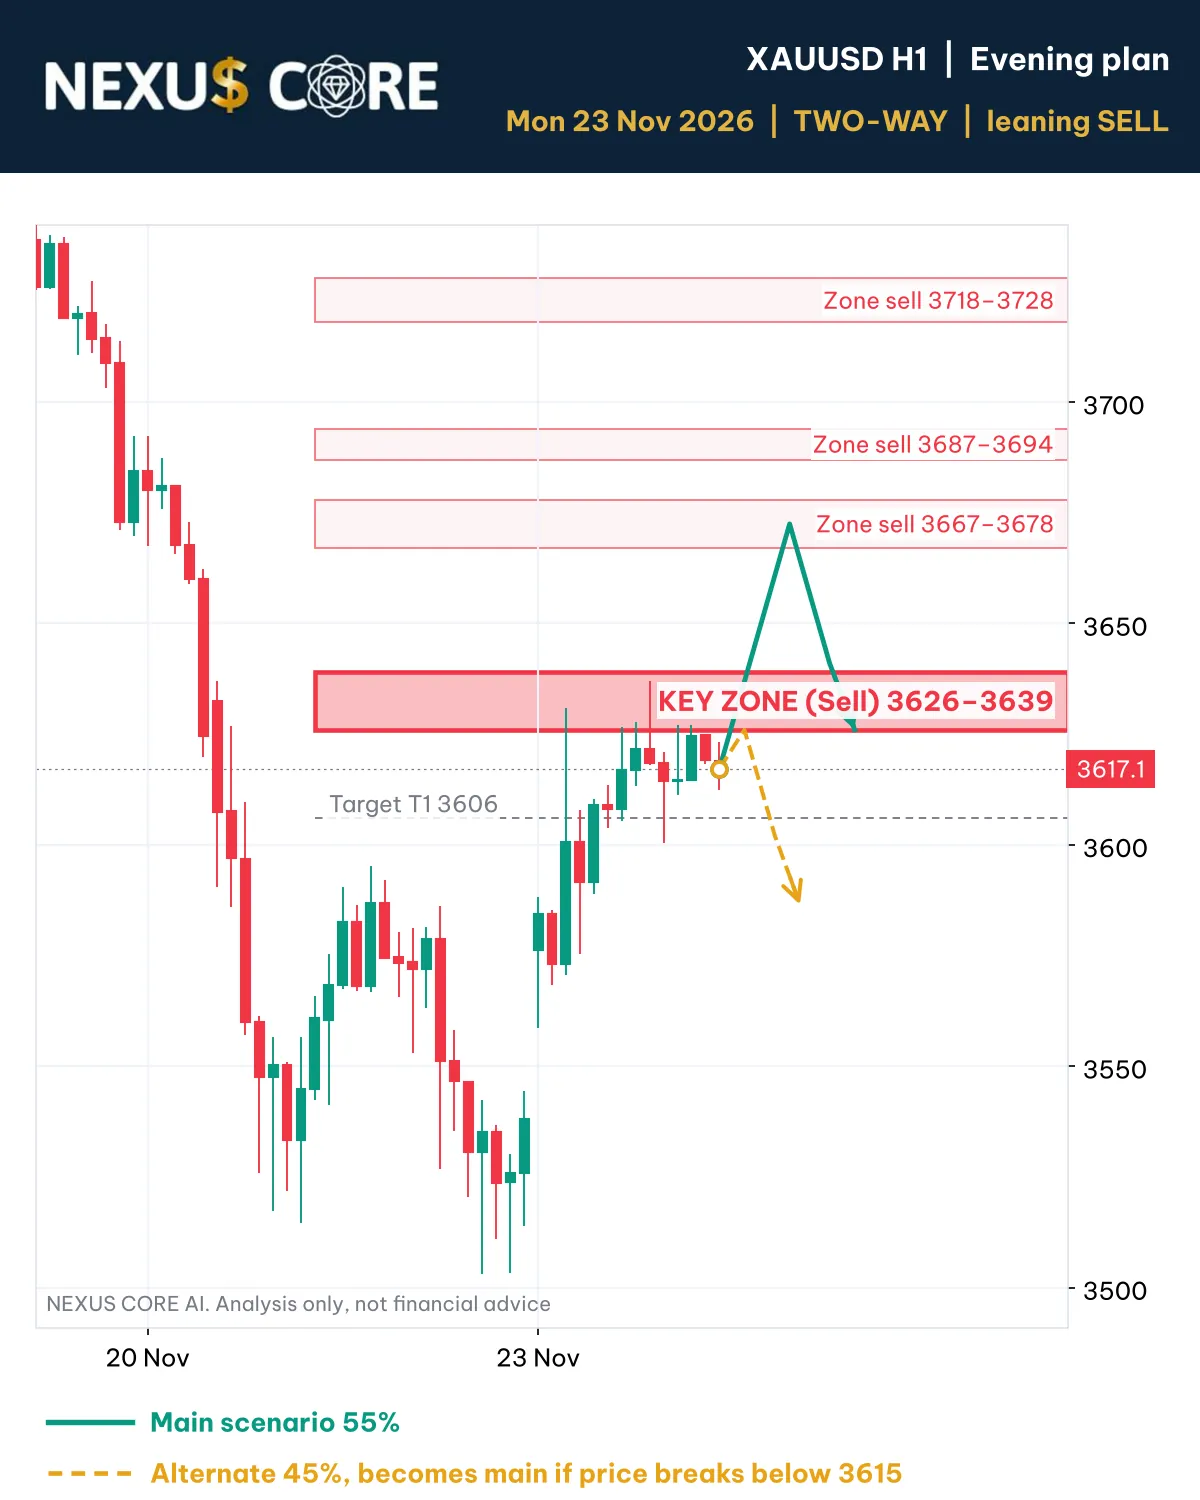
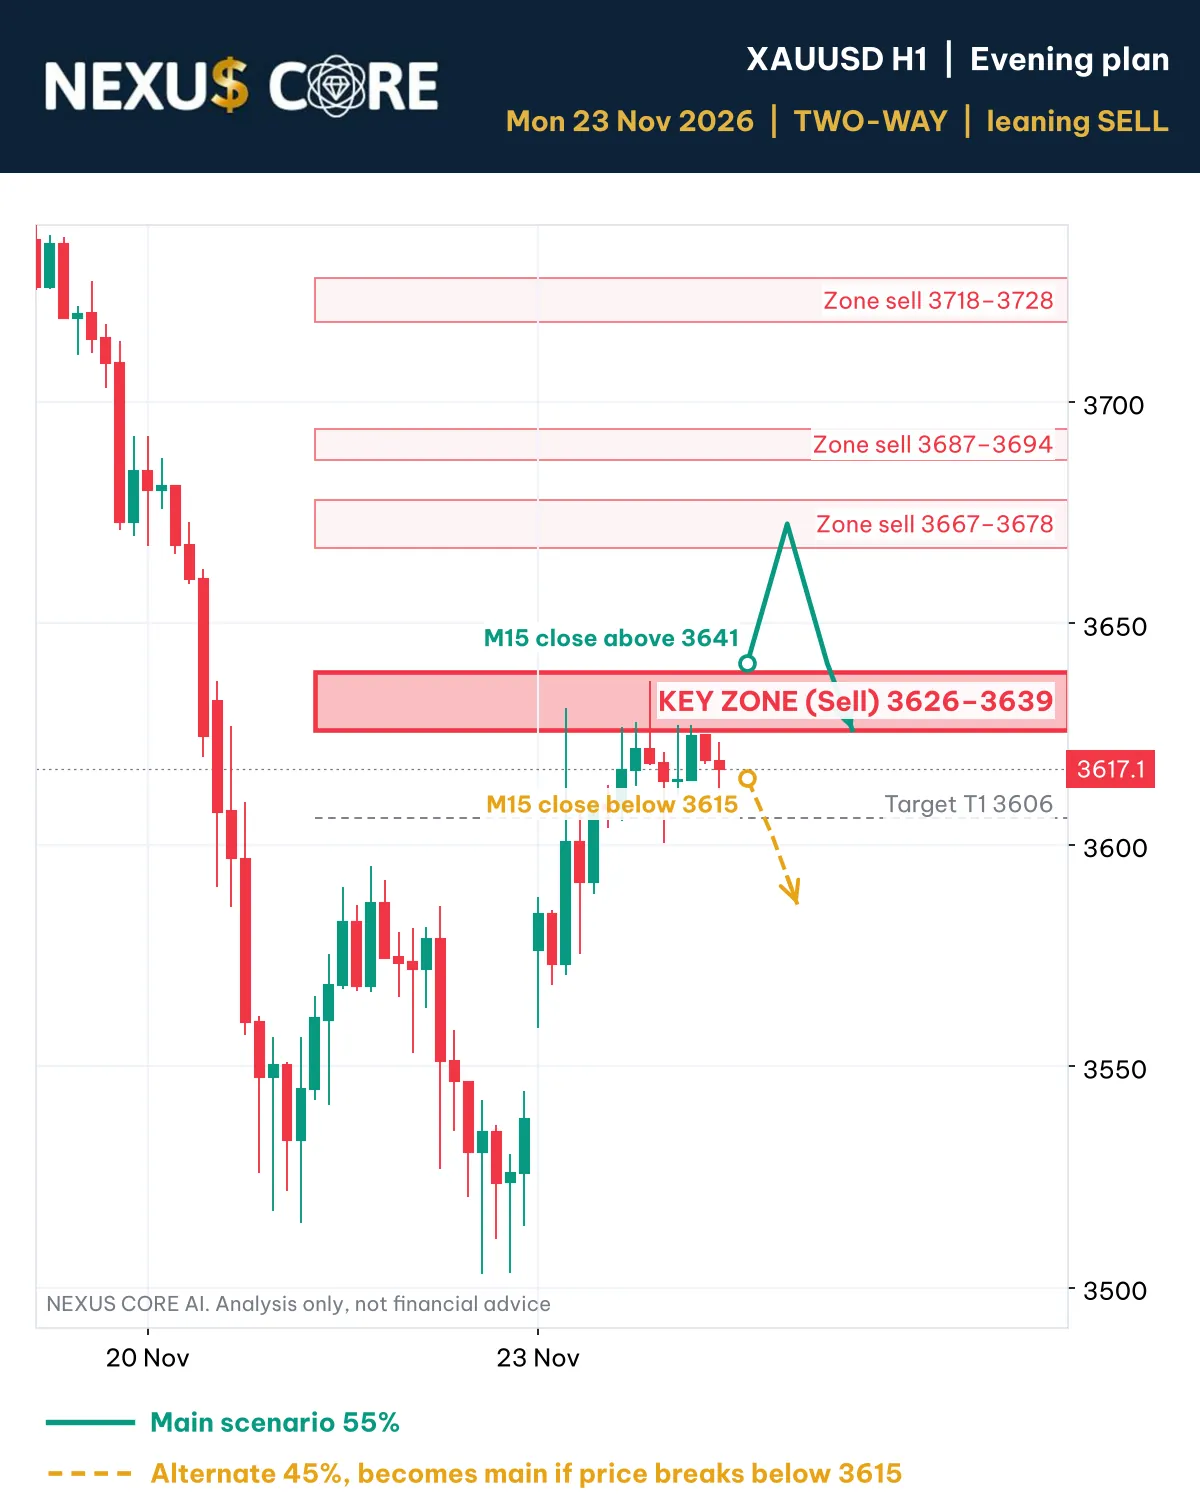
chart: conditional scenario arrows start at the M15 close level (labelled), not at the current price; target label at the right edge
Claude-Session: https://claude.ai/code/session_01WJYGnTrbXDepCU7DbnsJKo

diff --git a/tools/chart.py b/tools/chart.py
@@ -7,7 +7,7 @@ Usage: python3 tools/chart.py <h1.json> <latest.json> <vi|en> <out.png> [logo.pn
 Writes TWO images: <out.png> (wide, for desktop and social cards) and <out>-m.png (portrait, zoomed in,
 larger text – shown on phones). Only closed H1 candles are drawn. No network access.
 """
-import json, sys, time, math, datetime as dt
+import json, re, sys, time, math, datetime as dt
 import matplotlib
 matplotlib.use('Agg')
 # site font (Be Vietnam Pro, SIL Open Font License) so charts match the website; falls back to DejaVu Sans
@@ -27,12 +27,12 @@ L = lambda o: (o or {}).get(lang) or (o or {}).get('en') or ''
 num = lambda v: (f'{v:,.1f}' if round(v % 1, 2) else f'{v:,.0f}').replace(',', '')
 fmt = num
 W = {
-    'vi': dict(sell='Bán', buy='Mua', main='KỊCH BẢN CHÍNH', alt='Kịch bản phụ', key='VÙNG CHÍNH', zone='Vùng', tgt='Mục tiêu', watch='Mức theo dõi',
+    'vi': dict(sell='Bán', buy='Mua', main='KỊCH BẢN CHÍNH', alt='Kịch bản phụ', key='VÙNG CHÍNH', zone='Vùng', tgt='Mục tiêu', watch='Mức theo dõi', cl_up='đóng trên', cl_dn='đóng dưới',
                ed={'0700': 'Plan sáng', '1345': 'Cập nhật 13:45', '1930': 'Plan tối'}, bias={'SELL': 'BÁN', 'BUY': 'MUA', 'TWO_WAY': '2 CHIỀU', 'STAND_ASIDE': 'ĐỨNG NGOÀI'},
                lean='nghiêng', disc='Chỉ là phân tích, không phải lời khuyên đầu tư', tz='giờ VN',
                lg_main='Kịch bản chính', lg_alt='Kịch bản phụ', lg_up='thành chính khi giá phá lên trên', lg_dn='thành chính khi giá phá xuống dưới',
                lg_now='giá đã phá {v}', lg_was='kịch bản chính cũ'),
-    'en': dict(sell='Sell', buy='Buy', main='MAIN SCENARIO', alt='Alternate', key='KEY ZONE', zone='Zone', tgt='Target', watch='Watch level',
+    'en': dict(sell='Sell', buy='Buy', main='MAIN SCENARIO', alt='Alternate', key='KEY ZONE', zone='Zone', tgt='Target', watch='Watch level', cl_up='close above', cl_dn='close below',
                ed={'0700': 'Morning plan', '1345': '13:45 update', '1930': 'Evening plan'}, bias={'SELL': 'SELL', 'BUY': 'BUY', 'TWO_WAY': 'TWO-WAY', 'STAND_ASIDE': 'STAND ASIDE'},
                lean='leaning', disc='Analysis only, not financial advice', tz='GMT+7',
                lg_main='Main scenario', lg_alt='Alternate', lg_up='becomes main if price breaks above', lg_dn='becomes main if price breaks below',
@@ -95,8 +95,8 @@ def render(outf, mob):
     for tg in keep_tg:
         y = (tg['lo'] + tg['hi']) / 2
         ax.hlines(y, X0, X1, color=GRAY, lw=0.9, ls=(0, (4, 3)), zorder=1)
-        ZL.append(ax.text(X0 + 1, y, f"{W['tgt']} {tg['label']} {fmt(tg['lo']) if tg['lo'] == tg['hi'] else fmt(tg['lo']) + '–' + fmt(tg['hi'])}",
-                color=GRAY, fontsize=8.5 * K, ha='left', va='bottom', zorder=8, bbox=dict(fc='white', ec='none', alpha=0.85, pad=0.4)))
+        ZL.append(ax.text(X1 - 1, y, f"{W['tgt']} {tg['label']} {fmt(tg['lo']) if tg['lo'] == tg['hi'] else fmt(tg['lo']) + '–' + fmt(tg['hi'])}",
+                color=GRAY, fontsize=8.5 * K, ha='right', va='bottom', zorder=8, bbox=dict(fc='white', ec='none', alpha=0.85, pad=0.4)))
         shown.append(y)
     for w in keep_w:   # plan's watch levels: not a trade zone, never graded
         a, b = sorted([w['lo'], w['hi']])
@@ -126,6 +126,21 @@ def render(outf, mob):
         if rte:
             br = s.get('branch') or {}
             bto = [float(v) for v in (br.get('to') or []) if isinstance(v, (int, float))]
+            # conditional scenario (user 23/11/2026: "điểm xuất phát là lúc nến M15 đóng trên"): when the text says the
+            # scenario only starts after an M15/H1 close beyond its break level and price has not closed there yet, the
+            # arrow STARTS AT that level (marked and labelled), not at the current price – otherwise it reads as
+            # "price goes there first anyway".
+            trig = None
+            if pth:
+                tv = str((s.get('text') or {}).get('vi') or '')
+                for m in re.finditer(r'(M15|H1|H4)\s+đóng\s+(?:lại\s+)?(trên|dưới)\s+(\d{3,5}(?:[.,]\d+)?)', tv):
+                    if abs(float(m.group(3).replace(',', '.')) - pth[0]) <= 1.5: trig = (m.group(1), m.group(2) == 'trên'); break
+            if trig and ((trig[1] and px < pth[0]) or (not trig[1] and px > pth[0])):
+                up_ = trig[1]; g2 = list(rte)
+                while g2 and ((g2[0] <= pth[0] + 0.5) if up_ else (g2[0] >= pth[0] - 0.5)): g2.pop(0)
+                if g2:
+                    return dict(gia=g2, foot=pth[0], col=col, dut=not main, nhan=lab, brk=pth[0], bat=None, bto=[],
+                                trig=f"{trig[0]} {W['cl_up'] if up_ else W['cl_dn']} {fmt(pth[0])}", trig_up=up_)
             return dict(gia=rte, foot=px, col=col, dut=not main, nhan=lab,
                         brk=pth[0] if pth else None, bat=br.get('at') if bto else None, bto=bto)
         if len(pth) >= 2:
@@ -175,6 +190,9 @@ def render(outf, mob):
         pts = steep(x0, q['foot'], q['gia']); xs, ys_ = zip(*pts); lw = 1.9 if q['dut'] else 2.3
         ax.plot(xs, ys_, color=q['col'], lw=lw, ls='--' if q['dut'] else '-', zorder=5)
         ax.plot([x0], [q['foot']], marker='o', ms=5.5 * K, mfc='white', mec=q['col'], mew=1.8, zorder=6)   # break point
+        if q.get('trig'):   # label of the conditional start: "M15 đóng trên 3641"
+            ax.text(x0 - 0.6, q['foot'] + (2.5 if q['trig_up'] else -2.5), q['trig'], ha='right', va='bottom' if q['trig_up'] else 'top',
+                    fontsize=8.5 * K, color=q['col'], fontweight='bold', zorder=9, bbox=dict(fc='white', ec='none', alpha=0.9, pad=0.5))
         (a1, b1), (a2, b2) = pts[-2], pts[-1]
         ax.annotate('', xy=(a2, b2), xytext=(a1 + (a2 - a1) * 0.6, b1 + (b2 - b1) * 0.6), zorder=6,
                     arrowprops=dict(arrowstyle='->,head_length=0.9,head_width=0.45', color=q['col'], lw=lw, shrinkA=0, shrinkB=0))
